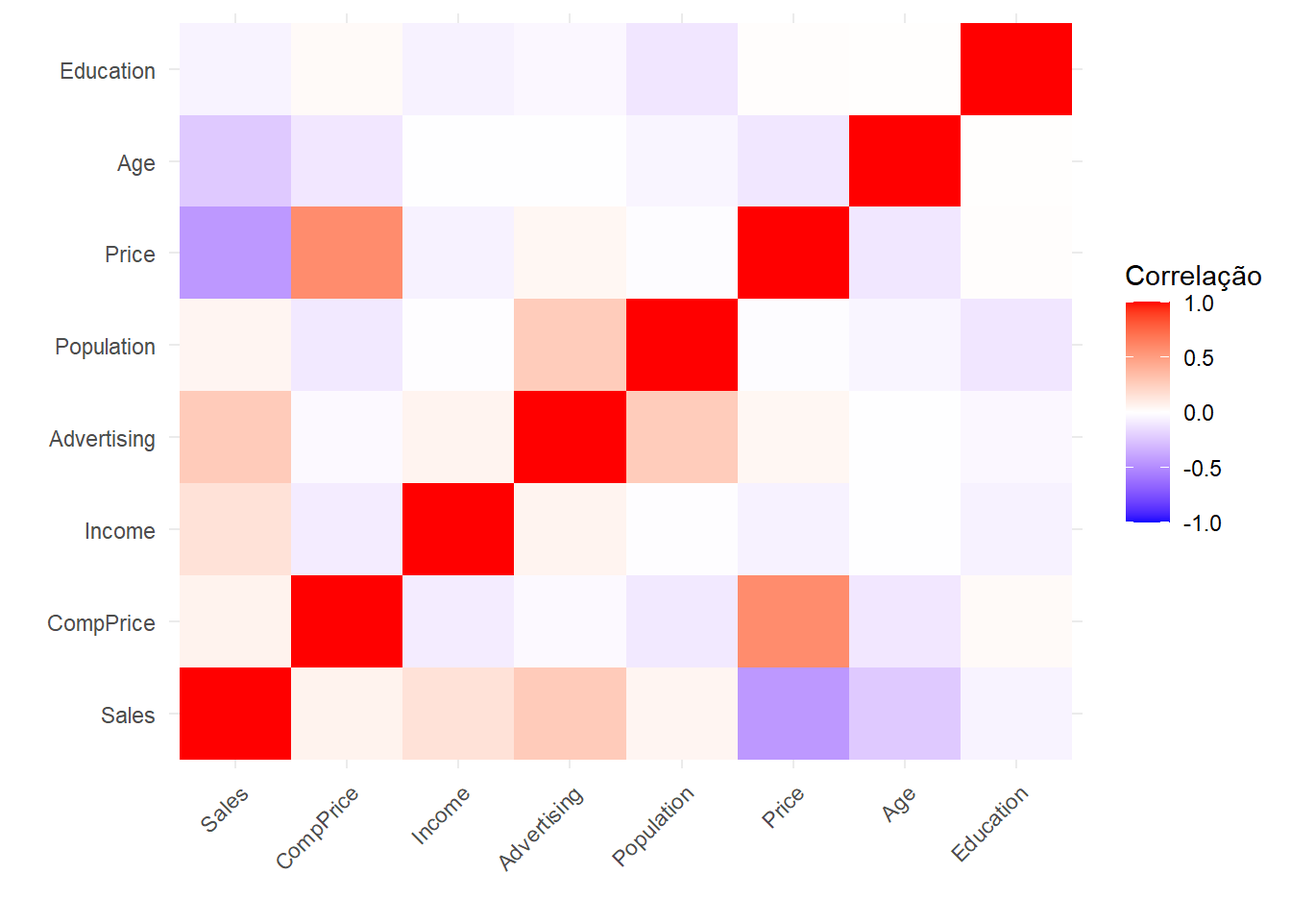
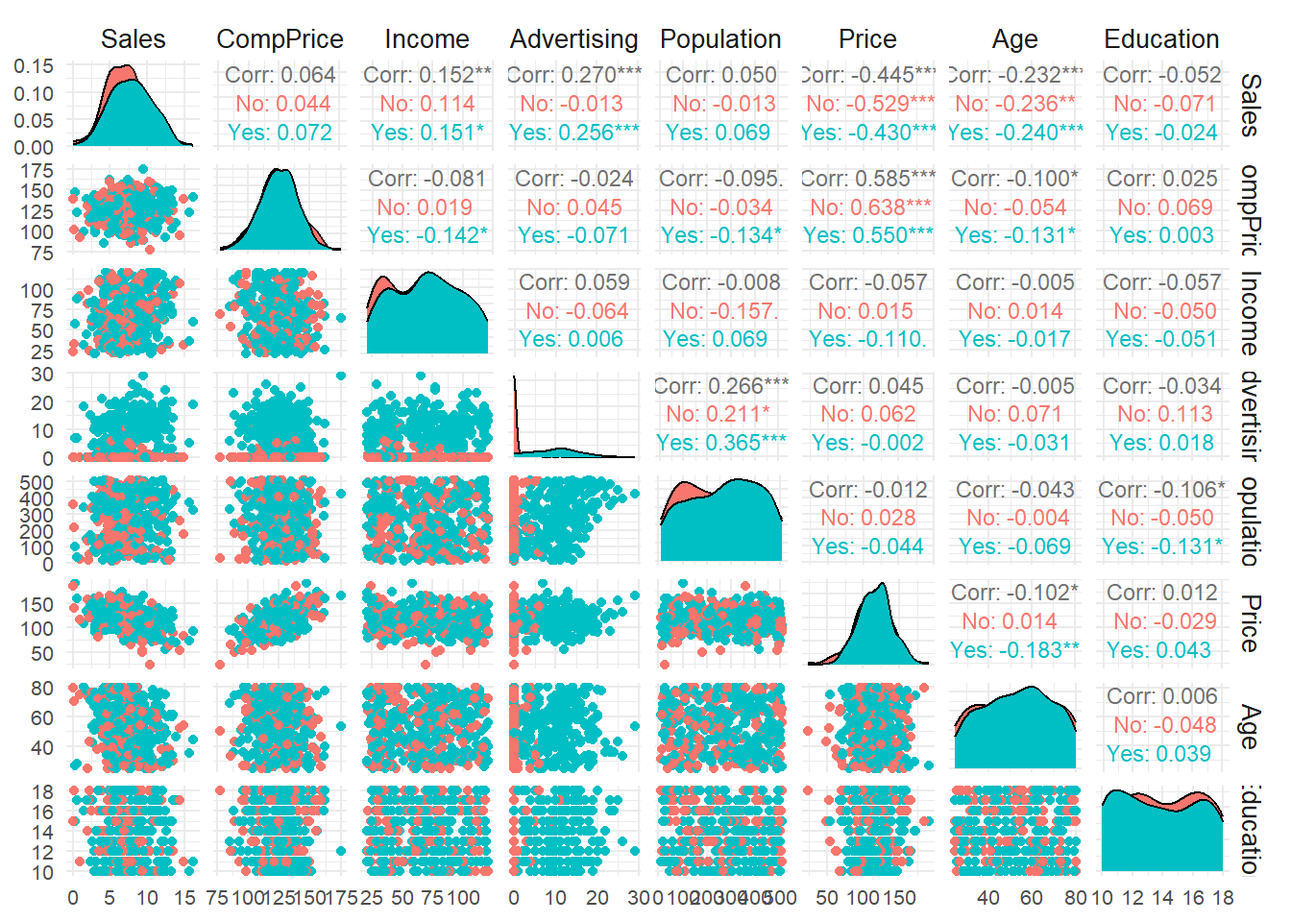
terceira parte

diff --git a/_site/relatorio_estatistica.html b/_site/relatorio_estatistica.html
@@ -180,7 +180,7 @@ window.Quarto = {
     <div>
     <div class="quarto-title-meta-heading">Data de Publicação</div>
     <div class="quarto-title-meta-contents">
-      <p class="date">30 de setembro de 2024</p>
+      <p class="date">2 de outubro de 2024</p>
     </div>
   </div>
   
@@ -479,64 +479,30 @@ window.Quarto = {
 <pre><code>package 'GGally' successfully unpacked and MD5 sums checked
 
 The downloaded binary packages are in
-    C:\Users\Notebook\AppData\Local\Temp\RtmpcRdVQz\downloaded_packages</code></pre>
+    C:\Users\Notebook\AppData\Local\Temp\RtmpKGVArx\downloaded_packages</code></pre>
 </div>
 <div class="sourceCode cell-code" id="cb8"><pre class="sourceCode r code-with-copy"><code class="sourceCode r"><span id="cb8-1"><a href="#cb8-1" aria-hidden="true" tabindex="-1"></a><span class="fu">library</span>(GGally)<span class="co"># Pacote para função ggpairs</span></span>
 <span id="cb8-2"><a href="#cb8-2" aria-hidden="true" tabindex="-1"></a><span class="fu">library</span>(ggplot2)</span>
-<span id="cb8-3"><a href="#cb8-3" aria-hidden="true" tabindex="-1"></a><span class="fu">library</span>(reshape2)</span>
-<span id="cb8-4"><a href="#cb8-4" aria-hidden="true" tabindex="-1"></a><span class="fu">library</span>(corrplot)</span>
-<span id="cb8-5"><a href="#cb8-5" aria-hidden="true" tabindex="-1"></a></span>
+<span id="cb8-3"><a href="#cb8-3" aria-hidden="true" tabindex="-1"></a></span>
+<span id="cb8-4"><a href="#cb8-4" aria-hidden="true" tabindex="-1"></a></span>
+<span id="cb8-5"><a href="#cb8-5" aria-hidden="true" tabindex="-1"></a><span class="do">### Multicolinearidade: r &gt; 0.9 (ou 0.8)</span></span>
 <span id="cb8-6"><a href="#cb8-6" aria-hidden="true" tabindex="-1"></a></span>
-<span id="cb8-7"><a href="#cb8-7" aria-hidden="true" tabindex="-1"></a><span class="fu">head</span>(Carseats)</span></code><button title="Copiar para a área de transferência" class="code-copy-button"><i class="bi"></i></button></pre></div>
-<div class="cell-output cell-output-stdout">
-<pre><code>  Sales CompPrice Income Advertising Population Price ShelveLoc Age Education
-1  9.50       138     73          11        276   120       Bad  42        17
-2 11.22       111     48          16        260    83      Good  65        10
-3 10.06       113     35          10        269    80    Medium  59        12
-4  7.40       117    100           4        466    97    Medium  55        14
-5  4.15       141     64           3        340   128       Bad  38        13
-6 10.81       124    113          13        501    72       Bad  78        16
-  Urban  US
-1   Yes Yes
-2   Yes Yes
-3   Yes Yes
-4   Yes Yes
-5   Yes  No
-6    No Yes</code></pre>
-</div>
-<div class="sourceCode cell-code" id="cb10"><pre class="sourceCode r code-with-copy"><code class="sourceCode r"><span id="cb10-1"><a href="#cb10-1" aria-hidden="true" tabindex="-1"></a>carseats_numeric <span class="ot">&lt;-</span> Carseats[, <span class="fu">sapply</span>(Carseats, is.numeric)]</span>
-<span id="cb10-2"><a href="#cb10-2" aria-hidden="true" tabindex="-1"></a>cor_matrix <span class="ot">&lt;-</span> <span class="fu">cor</span>(carseats_numeric)</span>
-<span id="cb10-3"><a href="#cb10-3" aria-hidden="true" tabindex="-1"></a><span class="fu">print</span>(cor_matrix)</span></code><button title="Copiar para a área de transferência" class="code-copy-button"><i class="bi"></i></button></pre></div>
-<div class="cell-output cell-output-stdout">
-<pre><code>                  Sales   CompPrice       Income  Advertising   Population
-Sales        1.00000000  0.06407873  0.151950979  0.269506781  0.050470984
-CompPrice    0.06407873  1.00000000 -0.080653423 -0.024198788 -0.094706516
-Income       0.15195098 -0.08065342  1.000000000  0.058994706 -0.007876994
-Advertising  0.26950678 -0.02419879  0.058994706  1.000000000  0.265652145
-Population   0.05047098 -0.09470652 -0.007876994  0.265652145  1.000000000
-Price       -0.44495073  0.58484777 -0.056698202  0.044536874 -0.012143620
-Age         -0.23181544 -0.10023882 -0.004670094 -0.004557497 -0.042663355
-Education   -0.05195524  0.02519705 -0.056855422 -0.033594307 -0.106378231
-                  Price          Age    Education
-Sales       -0.44495073 -0.231815440 -0.051955242
-CompPrice    0.58484777 -0.100238817  0.025197050
-Income      -0.05669820 -0.004670094 -0.056855422
-Advertising  0.04453687 -0.004557497 -0.033594307
-Population  -0.01214362 -0.042663355 -0.106378231
-Price        1.00000000 -0.102176839  0.011746599
-Age         -0.10217684  1.000000000  0.006488032
-Education    0.01174660  0.006488032  1.000000000</code></pre>
-</div>
-<div class="sourceCode cell-code" id="cb12"><pre class="sourceCode r code-with-copy"><code class="sourceCode r"><span id="cb12-1"><a href="#cb12-1" aria-hidden="true" tabindex="-1"></a>cor_melted <span class="ot">&lt;-</span> <span class="fu">melt</span>(cor_matrix)</span>
-<span id="cb12-2"><a href="#cb12-2" aria-hidden="true" tabindex="-1"></a></span>
-<span id="cb12-3"><a href="#cb12-3" aria-hidden="true" tabindex="-1"></a><span class="fu">ggplot</span>(cor_melted, <span class="fu">aes</span>(Var1, Var2, <span class="at">fill =</span> value)) <span class="sc">+</span></span>
-<span id="cb12-4"><a href="#cb12-4" aria-hidden="true" tabindex="-1"></a>  <span class="fu">geom_tile</span>() <span class="sc">+</span></span>
-<span id="cb12-5"><a href="#cb12-5" aria-hidden="true" tabindex="-1"></a>  <span class="fu">scale_fill_gradient2</span>(<span class="at">low =</span> <span class="st">"blue"</span>, <span class="at">high =</span> <span class="st">"red"</span>, <span class="at">mid =</span> <span class="st">"white"</span>, </span>
-<span id="cb12-6"><a href="#cb12-6" aria-hidden="true" tabindex="-1"></a>                       <span class="at">midpoint =</span> <span class="dv">0</span>, <span class="at">limit =</span> <span class="fu">c</span>(<span class="sc">-</span><span class="dv">1</span>, <span class="dv">1</span>), <span class="at">space =</span> <span class="st">"Lab"</span>, </span>
-<span id="cb12-7"><a href="#cb12-7" aria-hidden="true" tabindex="-1"></a>                       <span class="at">name =</span> <span class="st">"Correlação"</span>) <span class="sc">+</span></span>
-<span id="cb12-8"><a href="#cb12-8" aria-hidden="true" tabindex="-1"></a>  <span class="fu">theme_minimal</span>() <span class="sc">+</span></span>
-<span id="cb12-9"><a href="#cb12-9" aria-hidden="true" tabindex="-1"></a>  <span class="fu">theme</span>(<span class="at">axis.text.x =</span> <span class="fu">element_text</span>(<span class="at">angle =</span> <span class="dv">45</span>, <span class="at">vjust =</span> <span class="dv">1</span>, <span class="at">hjust =</span> <span class="dv">1</span>)) <span class="sc">+</span></span>
-<span id="cb12-10"><a href="#cb12-10" aria-hidden="true" tabindex="-1"></a>  <span class="fu">labs</span>(<span class="at">x =</span> <span class="st">""</span>, <span class="at">y =</span> <span class="st">""</span>)</span></code><button title="Copiar para a área de transferência" class="code-copy-button"><i class="bi"></i></button></pre></div>
+<span id="cb8-7"><a href="#cb8-7" aria-hidden="true" tabindex="-1"></a><span class="co">#graf1 &lt;- ggpairs(dados, columns = c("Sales", "CompPrice", "Income", "Advertising", "Population", "Price", "Age", "Education"),                   ggplot2::aes(colour=ShelveLoc))</span></span>
+<span id="cb8-8"><a href="#cb8-8" aria-hidden="true" tabindex="-1"></a></span>
+<span id="cb8-9"><a href="#cb8-9" aria-hidden="true" tabindex="-1"></a><span class="co">#graf1</span></span>
+<span id="cb8-10"><a href="#cb8-10" aria-hidden="true" tabindex="-1"></a></span>
+<span id="cb8-11"><a href="#cb8-11" aria-hidden="true" tabindex="-1"></a></span>
+<span id="cb8-12"><a href="#cb8-12" aria-hidden="true" tabindex="-1"></a>graf1 <span class="ot">&lt;-</span> <span class="fu">ggpairs</span>(dados, </span>
+<span id="cb8-13"><a href="#cb8-13" aria-hidden="true" tabindex="-1"></a>                 <span class="at">columns =</span> <span class="fu">c</span>(<span class="st">"Sales"</span>, <span class="st">"CompPrice"</span>, <span class="st">"Income"</span>, <span class="st">"Advertising"</span>, <span class="st">"Population"</span>, <span class="st">"Price"</span>, <span class="st">"Age"</span>, <span class="st">"Education"</span>), </span>
+<span id="cb8-14"><a href="#cb8-14" aria-hidden="true" tabindex="-1"></a>                 ggplot2<span class="sc">::</span><span class="fu">aes</span>(<span class="at">colour=</span>US), </span>
+<span id="cb8-15"><a href="#cb8-15" aria-hidden="true" tabindex="-1"></a>                 <span class="at">upper =</span> <span class="fu">list</span>(<span class="at">continuous =</span> <span class="fu">wrap</span>(<span class="st">"cor"</span>, <span class="at">size =</span> <span class="dv">3</span>)), </span>
+<span id="cb8-16"><a href="#cb8-16" aria-hidden="true" tabindex="-1"></a>                 <span class="at">lower =</span> <span class="fu">list</span>(<span class="at">continuous =</span> <span class="st">"points"</span>)) <span class="sc">+</span>            </span>
+<span id="cb8-17"><a href="#cb8-17" aria-hidden="true" tabindex="-1"></a>  <span class="fu">theme_minimal</span>() <span class="sc">+</span>                                              </span>
+<span id="cb8-18"><a href="#cb8-18" aria-hidden="true" tabindex="-1"></a>  <span class="fu">theme</span>(<span class="at">axis.text =</span> <span class="fu">element_text</span>(<span class="at">size =</span> <span class="dv">8</span>),                      </span>
+<span id="cb8-19"><a href="#cb8-19" aria-hidden="true" tabindex="-1"></a>        <span class="at">legend.position =</span> <span class="st">"bottom"</span>,                              </span>
+<span id="cb8-20"><a href="#cb8-20" aria-hidden="true" tabindex="-1"></a>        <span class="at">strip.text =</span> <span class="fu">element_text</span>(<span class="at">size =</span> <span class="dv">10</span>))    </span>
+<span id="cb8-21"><a href="#cb8-21" aria-hidden="true" tabindex="-1"></a></span>
+<span id="cb8-22"><a href="#cb8-22" aria-hidden="true" tabindex="-1"></a>graf1</span></code><button title="Copiar para a área de transferência" class="code-copy-button"><i class="bi"></i></button></pre></div>
 <div class="cell-output-display">
 <div>
 <figure class="figure">
@@ -544,46 +510,30 @@ Education    0.01174660  0.006488032  1.000000000</code></pre>
 </figure>
 </div>
 </div>
-<div class="sourceCode cell-code" id="cb13"><pre class="sourceCode r code-with-copy"><code class="sourceCode r"><span id="cb13-1"><a href="#cb13-1" aria-hidden="true" tabindex="-1"></a><span class="fu">corrplot</span>(cor_matrix, <span class="at">method =</span> <span class="st">"color"</span>, <span class="at">type =</span> <span class="st">"upper"</span>, </span>
-<span id="cb13-2"><a href="#cb13-2" aria-hidden="true" tabindex="-1"></a>         <span class="at">tl.col =</span> <span class="st">"black"</span>, <span class="at">tl.srt =</span> <span class="dv">45</span>, </span>
-<span id="cb13-3"><a href="#cb13-3" aria-hidden="true" tabindex="-1"></a>         <span class="at">col =</span> <span class="fu">colorRampPalette</span>(<span class="fu">c</span>(<span class="st">"blue"</span>, <span class="st">"white"</span>, <span class="st">"red"</span>))(<span class="dv">200</span>))</span></code><button title="Copiar para a área de transferência" class="code-copy-button"><i class="bi"></i></button></pre></div>
-<div class="cell-output-display">
-<div>
-<figure class="figure">
-<p><img src="relatorio_estatistica_files/figure-html/unnamed-chunk-3-2.png" class="img-fluid figure-img" width="672"></p>
-</figure>
-</div>
-</div>
-<div class="sourceCode cell-code" id="cb14"><pre class="sourceCode r code-with-copy"><code class="sourceCode r"><span id="cb14-1"><a href="#cb14-1" aria-hidden="true" tabindex="-1"></a><span class="do">### Multicolinearidade: r &gt; 0.9 (ou 0.8)</span></span>
-<span id="cb14-2"><a href="#cb14-2" aria-hidden="true" tabindex="-1"></a></span>
-<span id="cb14-3"><a href="#cb14-3" aria-hidden="true" tabindex="-1"></a><span class="co">#graf1 &lt;- ggpairs(dados, columns = c("Sales", "CompPrice", "Income", "Advertising", "Population", "Price", "Age", "Education"),                   ggplot2::aes(colour=ShelveLoc))</span></span>
-<span id="cb14-4"><a href="#cb14-4" aria-hidden="true" tabindex="-1"></a></span>
-<span id="cb14-5"><a href="#cb14-5" aria-hidden="true" tabindex="-1"></a><span class="co">#graf1</span></span>
-<span id="cb14-6"><a href="#cb14-6" aria-hidden="true" tabindex="-1"></a></span>
-<span id="cb14-7"><a href="#cb14-7" aria-hidden="true" tabindex="-1"></a></span>
-<span id="cb14-8"><a href="#cb14-8" aria-hidden="true" tabindex="-1"></a>graf1 <span class="ot">&lt;-</span> <span class="fu">ggpairs</span>(dados, </span>
-<span id="cb14-9"><a href="#cb14-9" aria-hidden="true" tabindex="-1"></a>                 <span class="at">columns =</span> <span class="fu">c</span>(<span class="st">"Sales"</span>, <span class="st">"CompPrice"</span>, <span class="st">"Income"</span>, <span class="st">"Advertising"</span>, <span class="st">"Population"</span>, <span class="st">"Price"</span>, <span class="st">"Age"</span>, <span class="st">"Education"</span>), </span>
-<span id="cb14-10"><a href="#cb14-10" aria-hidden="true" tabindex="-1"></a>                 ggplot2<span class="sc">::</span><span class="fu">aes</span>(<span class="at">colour=</span>ShelveLoc), </span>
-<span id="cb14-11"><a href="#cb14-11" aria-hidden="true" tabindex="-1"></a>                 <span class="at">upper =</span> <span class="fu">list</span>(<span class="at">continuous =</span> <span class="fu">wrap</span>(<span class="st">"cor"</span>, <span class="at">size =</span> <span class="dv">3</span>)), <span class="co"># Reduzindo o tamanho das correlações</span></span>
-<span id="cb14-12"><a href="#cb14-12" aria-hidden="true" tabindex="-1"></a>                 <span class="at">lower =</span> <span class="fu">list</span>(<span class="at">continuous =</span> <span class="st">"points"</span>)) <span class="sc">+</span>            <span class="co"># Exibe os pontos na parte inferior</span></span>
-<span id="cb14-13"><a href="#cb14-13" aria-hidden="true" tabindex="-1"></a>  <span class="fu">theme_minimal</span>() <span class="sc">+</span>                                              <span class="co"># Tema minimalista</span></span>
-<span id="cb14-14"><a href="#cb14-14" aria-hidden="true" tabindex="-1"></a>  <span class="fu">theme</span>(<span class="at">axis.text =</span> <span class="fu">element_text</span>(<span class="at">size =</span> <span class="dv">8</span>),                      <span class="co"># Ajusta o tamanho do texto nos eixos</span></span>
-<span id="cb14-15"><a href="#cb14-15" aria-hidden="true" tabindex="-1"></a>        <span class="at">legend.position =</span> <span class="st">"bottom"</span>,                              <span class="co"># Move a legenda para baixo</span></span>
-<span id="cb14-16"><a href="#cb14-16" aria-hidden="true" tabindex="-1"></a>        <span class="at">strip.text =</span> <span class="fu">element_text</span>(<span class="at">size =</span> <span class="dv">10</span>))    </span>
-<span id="cb14-17"><a href="#cb14-17" aria-hidden="true" tabindex="-1"></a></span>
-<span id="cb14-18"><a href="#cb14-18" aria-hidden="true" tabindex="-1"></a>graf1</span></code><button title="Copiar para a área de transferência" class="code-copy-button"><i class="bi"></i></button></pre></div>
-<div class="cell-output-display">
-<div>
-<figure class="figure">
-<p><img src="relatorio_estatistica_files/figure-html/unnamed-chunk-3-3.png" class="img-fluid figure-img" width="672"></p>
-</figure>
-</div>
-</div>
-<div class="sourceCode cell-code" id="cb15"><pre class="sourceCode r code-with-copy"><code class="sourceCode r"><span id="cb15-1"><a href="#cb15-1" aria-hidden="true" tabindex="-1"></a><span class="co"># Salvando o gráfico em .jpeg</span></span>
-<span id="cb15-2"><a href="#cb15-2" aria-hidden="true" tabindex="-1"></a><span class="fu">ggsave</span>(<span class="st">"Grafico_dispersao_carseats.jpeg"</span>)</span></code><button title="Copiar para a área de transferência" class="code-copy-button"><i class="bi"></i></button></pre></div>
+<div class="sourceCode cell-code" id="cb9"><pre class="sourceCode r code-with-copy"><code class="sourceCode r"><span id="cb9-1"><a href="#cb9-1" aria-hidden="true" tabindex="-1"></a><span class="co"># Salvando o gráfico em .jpeg</span></span>
+<span id="cb9-2"><a href="#cb9-2" aria-hidden="true" tabindex="-1"></a><span class="fu">ggsave</span>(<span class="st">"Grafico_dispersao_carseats.jpeg"</span>)</span></code><button title="Copiar para a área de transferência" class="code-copy-button"><i class="bi"></i></button></pre></div>
 </div>
 <section id="comentários-1" class="level4" data-number="2.1.2.1">
 <h4 data-number="2.1.2.1" class="anchored" data-anchor-id="comentários-1"><span class="header-section-number">2.1.2.1</span> Comentários</h4>
+<p>Com relação à análise de correlação é algo desejável observar altas correlações das variáveis independentes com relação à variável dependente que no presente caso é <code>Sales</code>.</p>
+<p>Por outro lado, altas correlações entre as demais variáveis a serem utilizadas como variáveis independentes nos dá indícios de que haverá <strong>problemas de multicolinearidade</strong> ao ajustar o MRLM. <strong>Como regra geral</strong> isto ocorre quando há <strong>correlações</strong> <span class="math inline">\(\geq 0.9\)</span> ou <span class="math inline">\(\geq 0.8\)</span> <strong>entre</strong> as <strong>variáveis preditoras</strong>.</p>
+<p>Dito isto, é possível observar que:</p>
+<ol type="1">
+<li>A variável dependente <code>Sales</code>:</li>
+</ol>
+<!-- -->
+<ol type="i">
+<li><p>não apresenta correlação linear significante com a variável <code>CompPrice</code> (r= 0,064, p &gt; 0.10);</p></li>
+<li><p>apresenta correlação linear significante com a variável <code>Income</code> (r= 0.152, p &lt; 0.001);</p></li>
+</ol>
+<p>iii.apresenta correlação linear significante com a variável <code>Advertising</code> (r= 0.270, p &lt; 0.001);</p>
+<ol start="4" type="i">
+<li><p>não apresenta correlação linear significante com a variável <code>Population</code> (r= 0.050, p &gt; 0.10);</p></li>
+<li><p>apresenta correlação linear significante com a variável <code>Price</code> (r= -0.445, p &lt; 0.001);</p></li>
+<li><p>apresenta correlação linear significante com a variável <code>Age</code> (r= -0.232, p &lt; 0.001);</p></li>
+<li><p>não apresenta correlação linear significante com a variável <code>Education</code> (r= -0.052, p &gt; 0.10);</p></li>
+</ol>
+<!-- -->
 <p>#Ajustando o modelo de regressão linear múltipla #modelo &lt;- lm(Sales ~ CompPrice + Income + Advertising + Population + Price + Age + Education, data = dados) #summary(modelo) # Resumo do modelo#### Multicolinearidade - Analisando o VIF - Variance Inflation Factor</p>
 <p>Uma maneira de identificar a multicolinearidade é através do <strong>Fator de Inflação da Variância (VIF)</strong>.</p>
 <p>O <strong>VIF é calculado</strong> para cada preditor fazendo uma regressão linear desse preditor em todos os outros preditores e, então, obtendo o <span class="math inline">\(R^2\)</span> dessa regressão. O VIF é apenas <span class="math inline">\(1/(1-R^2)\)</span>.</p>
@@ -599,30 +549,25 @@ Education    0.01174660  0.006488032  1.000000000</code></pre>
 <p>Veja abaixo <strong>como obter o vif</strong> usando o <em>R</em>, desconsiderando a variável <code>Sales</code> no modelo inicial.</p>
 <p>O problema da multicolinearidade não pode ser maior que 0,8/0,9</p>
 <div class="cell">
-<div class="sourceCode cell-code" id="cb16"><pre class="sourceCode r code-with-copy"><code class="sourceCode r"><span id="cb16-1"><a href="#cb16-1" aria-hidden="true" tabindex="-1"></a><span class="co"># Ajuste do modelo de regressão linear múltiplo</span></span>
-<span id="cb16-2"><a href="#cb16-2" aria-hidden="true" tabindex="-1"></a>modelo1 <span class="ot">&lt;-</span> <span class="fu">lm</span>(Sales <span class="sc">~</span> CompPrice <span class="sc">+</span> Income <span class="sc">+</span> Advertising <span class="sc">+</span> Population <span class="sc">+</span> Price <span class="sc">+</span> ShelveLoc <span class="sc">+</span> Age <span class="sc">+</span> Education <span class="sc">+</span> Urban <span class="sc">+</span> US, <span class="at">data =</span> dados)</span>
-<span id="cb16-3"><a href="#cb16-3" aria-hidden="true" tabindex="-1"></a></span>
-<span id="cb16-4"><a href="#cb16-4" aria-hidden="true" tabindex="-1"></a><span class="co">#modelo2 &lt;- update(modelo, ~ . -Species)</span></span>
-<span id="cb16-5"><a href="#cb16-5" aria-hidden="true" tabindex="-1"></a><span class="co">#summary(regres)</span></span>
-<span id="cb16-6"><a href="#cb16-6" aria-hidden="true" tabindex="-1"></a></span>
-<span id="cb16-7"><a href="#cb16-7" aria-hidden="true" tabindex="-1"></a><span class="co"># Uma opção para obter o: Variance Inflation Factor (VIF)</span></span>
-<span id="cb16-8"><a href="#cb16-8" aria-hidden="true" tabindex="-1"></a><span class="fu">library</span>(car) </span>
-<span id="cb16-9"><a href="#cb16-9" aria-hidden="true" tabindex="-1"></a></span>
-<span id="cb16-10"><a href="#cb16-10" aria-hidden="true" tabindex="-1"></a><span class="fu">vif</span>(modelo1)</span></code><button title="Copiar para a área de transferência" class="code-copy-button"><i class="bi"></i></button></pre></div>
+<div class="sourceCode cell-code" id="cb10"><pre class="sourceCode r code-with-copy"><code class="sourceCode r"><span id="cb10-1"><a href="#cb10-1" aria-hidden="true" tabindex="-1"></a><span class="co"># Ajuste do modelo de regressão linear múltiplo</span></span>
+<span id="cb10-2"><a href="#cb10-2" aria-hidden="true" tabindex="-1"></a><span class="co">#modelo1 &lt;- lm(Sales ~ CompPrice + Income + Advertising + Population + Price + ShelveLoc + Age + Education + Urban + US, data = dados)</span></span>
+<span id="cb10-3"><a href="#cb10-3" aria-hidden="true" tabindex="-1"></a></span>
+<span id="cb10-4"><a href="#cb10-4" aria-hidden="true" tabindex="-1"></a>modelo1 <span class="ot">&lt;-</span> <span class="fu">lm</span>(Sales <span class="sc">~</span> . <span class="sc">-</span> ShelveLoc <span class="sc">-</span> US <span class="sc">-</span> Urban, <span class="at">data =</span> dados)</span>
+<span id="cb10-5"><a href="#cb10-5" aria-hidden="true" tabindex="-1"></a></span>
+<span id="cb10-6"><a href="#cb10-6" aria-hidden="true" tabindex="-1"></a><span class="co">#modelo2 &lt;- update(modelo, ~ . -Species)</span></span>
+<span id="cb10-7"><a href="#cb10-7" aria-hidden="true" tabindex="-1"></a><span class="co">#summary(regres)</span></span>
+<span id="cb10-8"><a href="#cb10-8" aria-hidden="true" tabindex="-1"></a></span>
+<span id="cb10-9"><a href="#cb10-9" aria-hidden="true" tabindex="-1"></a><span class="co"># Uma opção para obter o: Variance Inflation Factor (VIF)</span></span>
+<span id="cb10-10"><a href="#cb10-10" aria-hidden="true" tabindex="-1"></a><span class="fu">library</span>(car) </span>
+<span id="cb10-11"><a href="#cb10-11" aria-hidden="true" tabindex="-1"></a></span>
+<span id="cb10-12"><a href="#cb10-12" aria-hidden="true" tabindex="-1"></a><span class="fu">vif</span>(modelo1)</span></code><button title="Copiar para a área de transferência" class="code-copy-button"><i class="bi"></i></button></pre></div>
 <div class="cell-output cell-output-stdout">
-<pre><code>                GVIF Df GVIF^(1/(2*Df))
-CompPrice   1.554618  1        1.246843
-Income      1.024731  1        1.012290
-Advertising 2.103136  1        1.450219
-Population  1.145534  1        1.070296
-Price       1.537068  1        1.239785
-ShelveLoc   1.033891  2        1.008367
-Age         1.021051  1        1.010471
-Education   1.026342  1        1.013086
-Urban       1.022705  1        1.011289
-US          1.980720  1        1.407380</code></pre>
+<pre><code>  CompPrice      Income Advertising  Population       Price         Age 
+   1.549720    1.014598    1.084521    1.101597    1.534323    1.015975 
+  Education 
+   1.014991 </code></pre>
 </div>
-<div class="sourceCode cell-code" id="cb18"><pre class="sourceCode r code-with-copy"><code class="sourceCode r"><span id="cb18-1"><a href="#cb18-1" aria-hidden="true" tabindex="-1"></a><span class="do">### Multicolinearidade: VIF &gt; 10</span></span></code><button title="Copiar para a área de transferência" class="code-copy-button"><i class="bi"></i></button></pre></div>
+<div class="sourceCode cell-code" id="cb12"><pre class="sourceCode r code-with-copy"><code class="sourceCode r"><span id="cb12-1"><a href="#cb12-1" aria-hidden="true" tabindex="-1"></a><span class="do">### Multicolinearidade: VIF &gt; 10</span></span></code><button title="Copiar para a área de transferência" class="code-copy-button"><i class="bi"></i></button></pre></div>
 </div>
 <p>p valor é grande? quem é h0? Ho é o modelo completo e H1 modelo sem H0 os modelos são equivalentes H1 modelo completo difere do sem a variável</p>
 <p><br>
@@ -634,37 +579,32 @@ US          1.980720  1        1.407380</code></pre>
 <section id="ajuste-do-modelo-1" class="level1" data-number="3">
 <h1 data-number="3"><span class="header-section-number">3</span> Ajuste do modelo 1</h1>
 <div class="cell">
-<div class="sourceCode cell-code" id="cb19"><pre class="sourceCode r code-with-copy"><code class="sourceCode r"><span id="cb19-1"><a href="#cb19-1" aria-hidden="true" tabindex="-1"></a><span class="fu">summary</span>(modelo1)</span></code><button title="Copiar para a área de transferência" class="code-copy-button"><i class="bi"></i></button></pre></div>
+<div class="sourceCode cell-code" id="cb13"><pre class="sourceCode r code-with-copy"><code class="sourceCode r"><span id="cb13-1"><a href="#cb13-1" aria-hidden="true" tabindex="-1"></a><span class="fu">summary</span>(modelo1)</span></code><button title="Copiar para a área de transferência" class="code-copy-button"><i class="bi"></i></button></pre></div>
 <div class="cell-output cell-output-stdout">
 <pre><code>
 Call:
-lm(formula = Sales ~ CompPrice + Income + Advertising + Population + 
-    Price + ShelveLoc + Age + Education + Urban + US, data = dados)
+lm(formula = Sales ~ . - ShelveLoc - US - Urban, data = dados)
 
 Residuals:
     Min      1Q  Median      3Q     Max 
--2.8692 -0.6908  0.0211  0.6636  3.4115 
+-5.0598 -1.3515 -0.1739  1.1331  4.8304 
 
 Coefficients:
-                  Estimate Std. Error t value Pr(&gt;|t|)    
-(Intercept)      5.6606231  0.6034487   9.380  &lt; 2e-16 ***
-CompPrice        0.0928153  0.0041477  22.378  &lt; 2e-16 ***
-Income           0.0158028  0.0018451   8.565 2.58e-16 ***
-Advertising      0.1230951  0.0111237  11.066  &lt; 2e-16 ***
-Population       0.0002079  0.0003705   0.561    0.575    
-Price           -0.0953579  0.0026711 -35.700  &lt; 2e-16 ***
-ShelveLocGood    4.8501827  0.1531100  31.678  &lt; 2e-16 ***
-ShelveLocMedium  1.9567148  0.1261056  15.516  &lt; 2e-16 ***
-Age             -0.0460452  0.0031817 -14.472  &lt; 2e-16 ***
-Education       -0.0211018  0.0197205  -1.070    0.285    
-UrbanYes         0.1228864  0.1129761   1.088    0.277    
-USYes           -0.1840928  0.1498423  -1.229    0.220    
+              Estimate Std. Error t value Pr(&gt;|t|)    
+(Intercept)  7.7076934  1.1176260   6.896 2.15e-11 ***
+CompPrice    0.0939149  0.0078395  11.980  &lt; 2e-16 ***
+Income       0.0128717  0.0034757   3.703 0.000243 ***
+Advertising  0.1308637  0.0151219   8.654  &lt; 2e-16 ***
+Population  -0.0001239  0.0006877  -0.180 0.857092    
+Price       -0.0925226  0.0050521 -18.314  &lt; 2e-16 ***
+Age         -0.0449743  0.0060083  -7.485 4.75e-13 ***
+Education   -0.0399844  0.0371257  -1.077 0.282142    
 ---
 Signif. codes:  0 '***' 0.001 '**' 0.01 '*' 0.05 '.' 0.1 ' ' 1
 
-Residual standard error: 1.019 on 388 degrees of freedom
-Multiple R-squared:  0.8734,    Adjusted R-squared:  0.8698 
-F-statistic: 243.4 on 11 and 388 DF,  p-value: &lt; 2.2e-16</code></pre>
+Residual standard error: 1.929 on 392 degrees of freedom
+Multiple R-squared:  0.5417,    Adjusted R-squared:  0.5335 
+F-statistic: 66.18 on 7 and 392 DF,  p-value: &lt; 2.2e-16</code></pre>
 </div>
 </div>
 <p><br>
